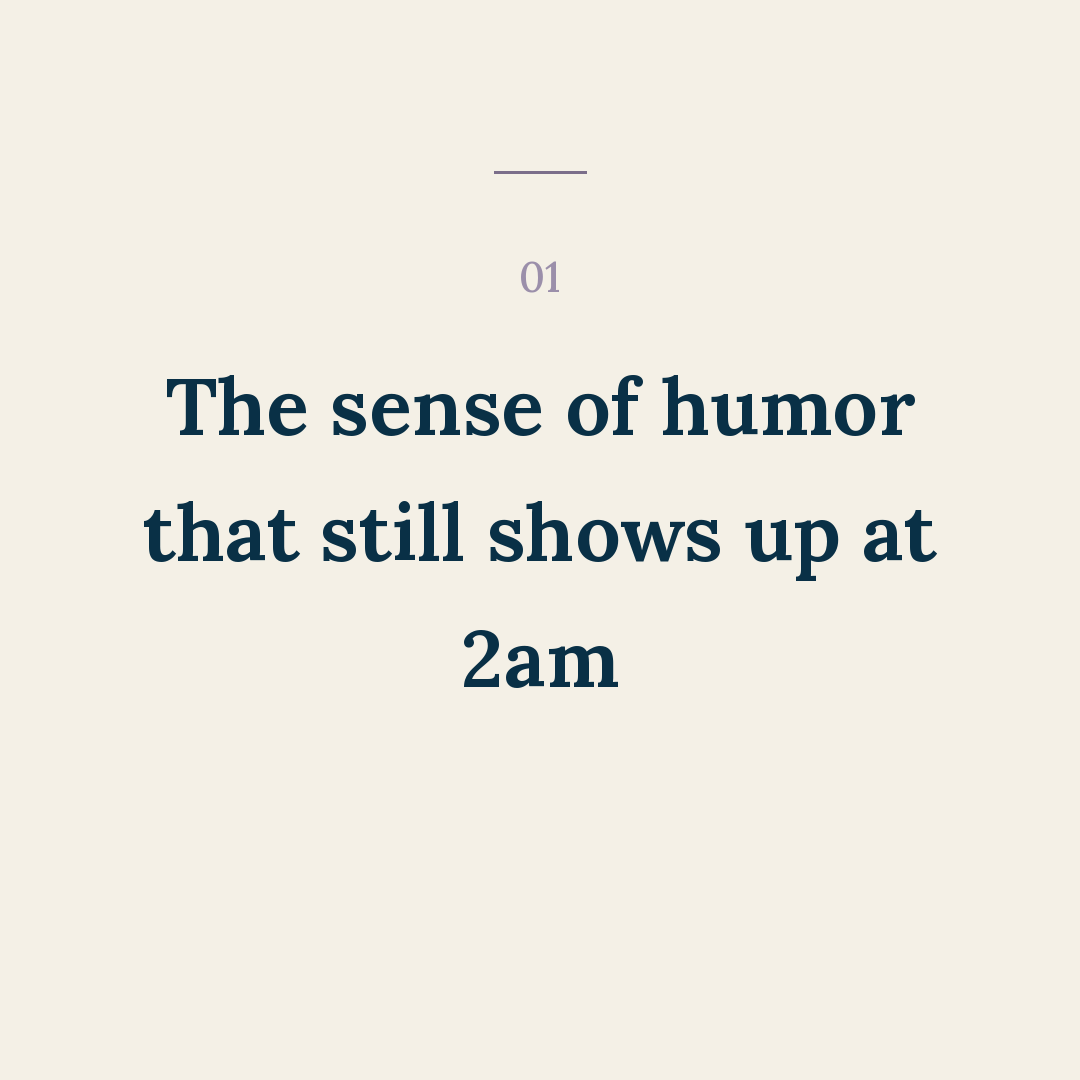
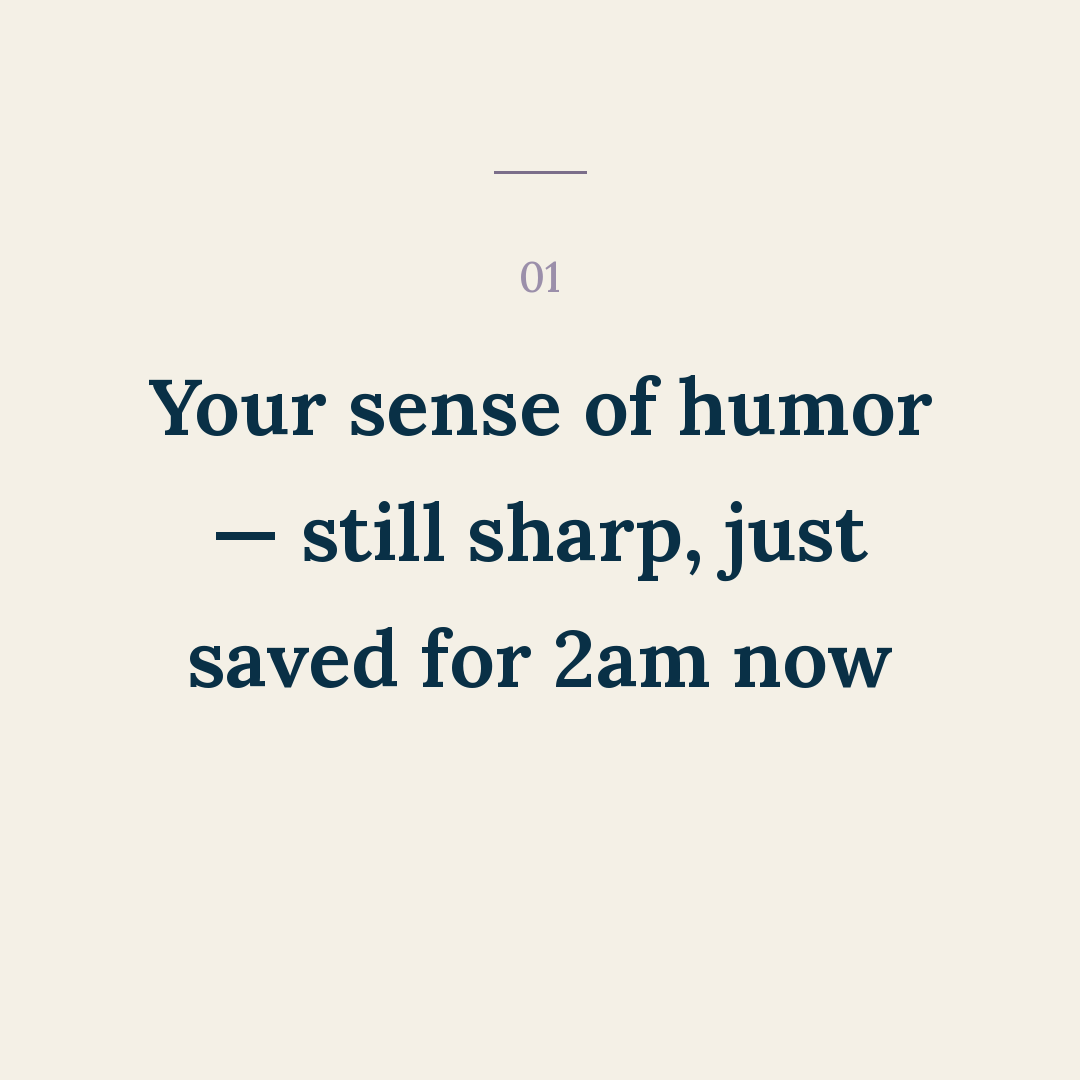
Add 56-parts-of-you-not-gone (56 - Parts Of You Not Gone)

diff --git a/posts/56-parts-of-you-not-gone/slides.md b/posts/56-parts-of-you-not-gone/slides.md
@@ -6,13 +6,17 @@ Format: carousel · bg cream · Warmth · hook #64
 The parts of you that aren't gone — just quiet since your newborn arrived…
 
 ## Items
-01  The sense of humor that still shows up at 2am
-02  The person your friends still recognize under the exhaustion
-03  The opinions you still have, even with no time to voice them
-04  The version of you your newborn is going to meet, slowly
-05  The parts that come back louder once the fog lifts
+01  Your sense of humor — still sharp, just saved for 2am now
+02  The friend your people still recognize, even exhausted
+03  Opinions you still have, just not enough hours to say them
+04  The person your newborn hasn't met yet, and will
+05  All of it, coming back louder the second the fog lifts
 
 ## Closer (follow)
 Follow for reminders that you're still in there.
+
+REVISED 2026-08-16 per Ben's review: item set rewritten for clarity — his note was that the original
+items read as confusing and didn't clearly tie to the "quiet, not gone" premise. Each item now states
+plainly what's still there, just quieter, tightening the connection to the cover.
 
 Render with render_cover / render_items_for_post / render_follow, weight 650, bg BG_CREAM.
